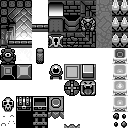
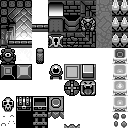
Rock Debris ++
make the collision recs of pits larger.
this prevents a state where a rock could not get pulled into a pit.
because the rock's collisionrec is small, it could fit inbetween pit recs.
this caused the rock to just sit, hovering over a pit. which was bad.
updated ScatterDebris to add additional rocks sometimes.
decreased the inherited magnitude from actor collisions with rocks.
removed rocks from the bumper bounce routine.
improved rock sprites to be larger.
lots of playtesting and rock interaction. looking good.

Changed region(s): [[0.875, 0.875, 1.0, 1.0]]

diff --git a/GameClasses/Functions_Interaction.cs b/GameClasses/Functions_Interaction.cs
@@ -259,9 +259,6 @@ namespace DungeonRun
                 #endregion
 
 
-                //switch
-                //upon hero collision with switch, switch turns on, resulting in whatever event it's tied to
-
                 #region Objects
 
                 if (Obj.type == ObjType.PitTrap)
@@ -292,6 +289,9 @@ namespace DungeonRun
                     return; //bail from interaction check
                 }
 
+                //switch
+                //upon hero collision with switch, switch turns on, resulting in whatever event it's tied to
+
                 #endregion
 
             }
@@ -304,10 +304,11 @@ namespace DungeonRun
                 {
                     if (Obj.type == ObjType.ProjectileDebrisRock)
                     {   //if the rock isn't moving, actor just collided with it, inherit actor's magnitude
-                        if (Obj.compMove.magnitude.X == 0) //kick rock on X
-                        { Obj.compMove.magnitude.X = Actor.compMove.magnitude.X * 7.0f; }
-                        if (Obj.compMove.magnitude.Y == 0) //kick rock on Y
-                        { Obj.compMove.magnitude.Y = Actor.compMove.magnitude.Y * 7.0f; }
+                        if (Obj.compMove.magnitude.X == 0 & Obj.compMove.magnitude.Y == 0)
+                        {   //inherit actor's magnitude multiplied alot, so the rock quickly moves away
+                            Obj.compMove.magnitude.X = Actor.compMove.magnitude.X * 5.0f;
+                            Obj.compMove.magnitude.Y = Actor.compMove.magnitude.Y * 5.0f;
+                        }
                     }
                     else
                     {
@@ -538,7 +539,9 @@ namespace DungeonRun
                 if (RoomObj.type == ObjType.Bumper)
                 {
                     //some projectiles cannot be bounced off bumper
-                    if (Projectile.type == ObjType.ProjectileSword) { return; }
+                    if (Projectile.type == ObjType.ProjectileSword
+                        || Projectile.type == ObjType.ProjectileDebrisRock)
+                    { return; }
 
                     //stop projectile movement, bounce it
                     Projectile.compMove.magnitude.X = 0;

diff --git a/GameClasses/Functions_Room.cs b/GameClasses/Functions_Room.cs
@@ -495,10 +495,29 @@ namespace DungeonRun
                 {
                     if (Functions_Random.Int(0, 100) > 90)
                     {   //randomly place rock debris in room
-                        Functions_Entity.SpawnEntity(ObjType.ProjectileDebrisRock,
+                        Functions_Entity.SpawnEntity(
+                            ObjType.ProjectileDebrisRock,
                             Pool.floorPool[i].position.X + Functions_Random.Int(-4, 4),
                             Pool.floorPool[i].position.Y + Functions_Random.Int(-4, 4),
                             Direction.Down);
+                        //half the time, add another rock
+                        if (Functions_Random.Int(0, 100) > 50)
+                        {
+                            Functions_Entity.SpawnEntity(
+                                ObjType.ProjectileDebrisRock,
+                                Pool.floorPool[i].position.X + Functions_Random.Int(-4, 4),
+                                Pool.floorPool[i].position.Y + Functions_Random.Int(-4, 4),
+                                Direction.Down);
+                        }
+                        //half the time, add another rock
+                        if (Functions_Random.Int(0, 100) > 50)
+                        {
+                            Functions_Entity.SpawnEntity(
+                                ObjType.ProjectileDebrisRock,
+                                Pool.floorPool[i].position.X + Functions_Random.Int(-4, 4),
+                                Pool.floorPool[i].position.Y + Functions_Random.Int(-4, 4),
+                                Direction.Down);
+                        }
                     }
                 }
             }

diff --git a/GameClasses/Functions_GameObject.cs b/GameClasses/Functions_GameObject.cs
@@ -233,8 +233,8 @@ namespace DungeonRun
             {
                 //this pit interacts with actor
                 Obj.compSprite.zOffset = -64; //sort under pit teeth
-                Obj.compCollision.offsetX = -4; Obj.compCollision.offsetY = -4;
-                Obj.compCollision.rec.Width = 8; Obj.compCollision.rec.Height = 8;
+                Obj.compCollision.offsetX = -5; Obj.compCollision.offsetY = -5;
+                Obj.compCollision.rec.Width = 10; Obj.compCollision.rec.Height = 10;
                 Obj.compCollision.blocking = false;
                 Obj.canBeSaved = true;
                 Obj.getsAI = true;
@@ -587,13 +587,13 @@ namespace DungeonRun
             {
                 Obj.compSprite.zOffset = -24; //sort low, but over floor
                 Obj.compSprite.cellSize.X = 8; Obj.compSprite.cellSize.Y = 8; //nonstandard size
-                Obj.compCollision.offsetX = -8; Obj.compCollision.offsetY = -8;
+                Obj.compCollision.offsetX = -8; Obj.compCollision.offsetY = -8; //wonky, but needed
                 Obj.compCollision.rec.Width = 8; Obj.compCollision.rec.Height = 8;
                 Obj.group = ObjGroup.Projectile;
                 Obj.lifetime = 0; //lasts for life of room
                 Obj.compCollision.blocking = false;
                 Obj.compMove.moveable = true;
-                Obj.compMove.grounded = true; //in air
+                Obj.compMove.grounded = true;
                 Obj.direction = Direction.Down; //always faces down
             }
 
